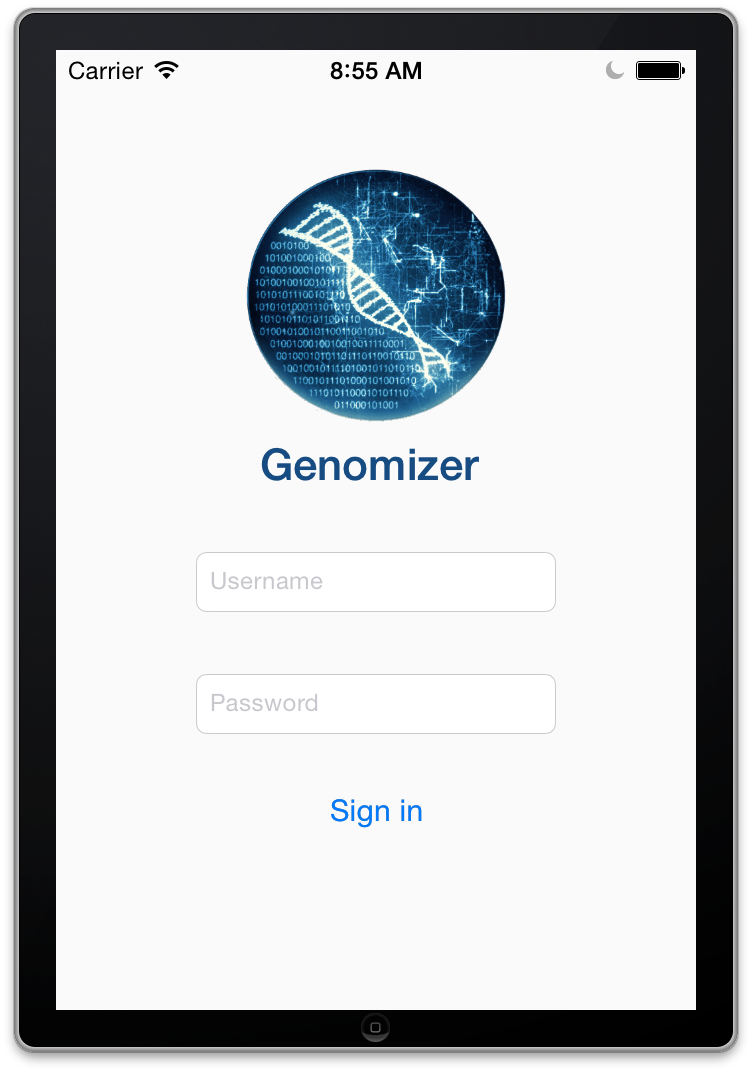
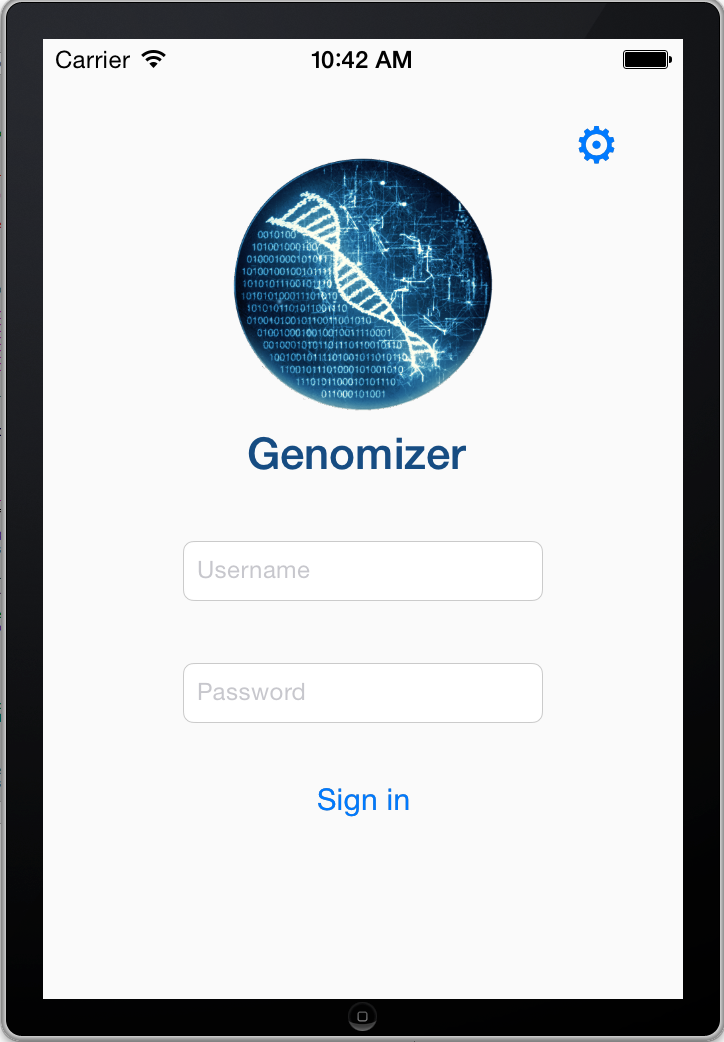
iOS allt sprint 4

diff --git a/usermanual/ios_manual.tex b/usermanual/ios_manual.tex
@@ -1,109 +1,81 @@
-In order to use the program import the project from github into Xcode from the following repository:
+In order to use the program, import the project from github into Xcode from the following repository:
 \url{https://github.com/genomizer/genomizer-iOS.git} 
 
-To compile and run the program press \click{cmd+R}. A simulator will start and the login screen will be shown as seen in \refer{fig:ios_login}  below. A user gets logged in when accepted credentials are entered in the ‘username’ and ‘password’ fields and the ‘Sign in’ button is pressed. If incorrect credentials is entered, a popup message is shown, informing the user that the username or password is incorrect.
+To compile and run the program, press \click{cmd+R}. A simulator will start and the login screen will be shown as seen in \refer{fig:ios_login}. A user gets logged in when accepted credentials are entered in the ‘username’ and ‘password’ fields and the ‘Sign in’ button is pressed. If incorrect credentials are entered, a popup message is shown, informing the user that the username or password is incorrect. The user can also change  the server to connect to by pressing the symbol in the top rightmost corner. The user will then be presented with a popup window as seen in the rightmost view in \refer{fig:ios_login}.
 
 \begin{figure}[ht]
-\addScaledImage{0.2}{ios_login.png}
+\addThreeImages{ios_login.png}{ios_loginFailed.png}{ios_changeServer}
 \caption{The login screen.}
 \label{fig:ios_login}
 \end{figure}
 \FloatBarrier
-After logging in, the user is presented with a search view as seen in \refer{fig:ios_search}. The bottom menu bar is used to navigate between the Search-, Selected files- and More-view according to Apples current GUI standards for iOS 7. In the current state, the More-menu only contains a logout button which is used to log out.The Selected files-menu contains a list sorted on file type of files selected by the user. In the search view, the user can search the database for results matching any number of search criteria. To be able to modify the search quickly, a toggle button is available in the rightmost edge of each search field which enables or disables each search field. For example, if the user wants to search for files matching a certain Experiment ID, the user clicks on ‘Experiment ID’, enters the ID and clicks on the toggle button. 
-
+After logging in, the user is presented with a search view as seen in the leftmost view in \refer{fig:ios_search}. The bottom menu bar is used to navigate between the Search-, Selected files-, Processes- and More-view in accordance with Apple's current GUI standards for iOS 7. In the current state, the More-menu only contains a logout button which is used to log out. The Selected files-menu contains a list of files selected by the user, sorted by file type.
 \begin{figure}[ht]
-\addScaledImage{0.2}{ios_search.png}
+\addThreeImages{ios_searchFirst.png}{ios_searchSecond.png}{ios_advancedSearch.png}
 \caption{The search screen.}
 \label{fig:ios_search}
 \end{figure}
 \FloatBarrier
-In top rightmost corner there is a button for opening a advanced search view as seen in \refer{fig:ios_advSearch}. Here the user is supposed to enter a search query in ’pubmed-style-format’. If a user fills in fields in the regular search view and then opens the advanced search view, the fields in filled at the regular search view will apper as a query in the advanced search view.
+In the search view, the user can search the database for results matching any number of search criteria. To be able to modify the search quickly, a toggle button is available in the rightmost edge of each search field which enables or disables each search field. For example, if the user wants to search for experiments where species is ‘human’, the user clicks on ‘Species’, chooses human, clicks done and the toggle button will automatically switch to active as seen in in the view in the middle in \refer{fig:ios_search}.
+In top rightmost corner, there is a button for opening an advanced search view as seen in the rightmost view in \refer{fig:ios_search}. Here the user is supposed to enter a search query in ’pubmed-style-format’. If a user fills in fields in the regular search view and then opens the advanced search view, the fields that currently have values set at the regular search view will apper as a query in the advanced search view.
+
+When the search button has been pressed, the user is presented with all matching experiments in the Search Results view shown to the left in \refer{fig:ios_searchResult}. To manage which annotations should be displayed for every experiment, the user can press the edit button in the top rightsmost corner and will then be presented with the middle view in \refer{fig:ios_searchResult}. Here the user can set the visibility for each annotation. When the user then presses the ’back’-button, the annotations chosen will be shown for each experiment as seen in the rightmost picture in \refer{fig:ios_searchResult}. To see which files are associated with each experiment, the user can click on the experiment in order to get to the Files view shown in the leftmost view in \refer{fig:ios_files1}.
 
 \begin{figure}[ht]
-\addScaledImage{0.2}{ios_advSearch.png}
-\caption{The advanced search screen.}
-\label{fig:ios_advSearch}
-\end{figure}
-\FloatBarrier
-When the search button has been pressed, the user is presented with all matching experiments in the Search Results view shown in \refer{fig:ios_searchResult}. To manage which annotations that shoud be shown for every experiment the user can press the edit button in the top rightmost corner.
-
-\begin{figure}[ht]
-\addScaledImage{0.2}{ios_searchResults.png}
+\addThreeImages{ios_searchResultsFirst.png}{ios_selectAnnotations.png}{ios_searchResultsSecond.png}
 \caption{The search result screen.}
 \label{fig:ios_searchResult}
 \end{figure}
 \FloatBarrier
-When the edit button is pressed the select annotations screen as seen in \refer{fig:ios_selectAnnotations} is shown. Here the user can choose which annotations should be shown in the search results screen. 
+In the Files view, the user can see all files connected to the selected experiment, sorted by type. The user can also get additional information about a file by simply clicking the blue information sign close to the filename. The file information is shown in a popup window as shown in rightmost view in \refer{fig:ios_files1}. If the user selects files and presses the ‘Convert files’-button, the user is shown the Select task view as seen in \refer{fig:ios_convert}. More about that later.
 
 \begin{figure}[htb]
-\addScaledImage{0.2}{ios_selectAnnotations.png}
-\caption{The select annotations screen.}
-\label{fig:ios_selectAnnotations}
-\end{figure}
-\FloatBarrier
-To see which files are associated with each experiment, the user can click on the experiment. Then the files view is shown as seen in \refer{fig:ios_files1}. Here the user can see all files conneted to the chosen experiment, sorted by type, and select files that the user want to move to the selected files view. If the user selects files and presses the ‘convert files’-button a the user is shown the Select task view shown in \refer{fig:ios_selectTask}. More about that screen later. The user can also get information about a file by simply clicking the blue information sign close to the filename. The file information is shown in a popup window as shown in \refer{fig:ios_fileInfo}.
-
-\begin{figure}[htb]
-\addScaledImage{0.2}{ios_files1.png}
+\addTwoImages{ios_filesFirst.png}{ios_filesFileInfo.png}
 \caption{The files screen.}
 \label{fig:ios_files1}
 \end{figure}
+\FloatBarrier
+The user can also move files to the selected files view. This is done by simply turning the switch to the right of the filename as seen in the left view in \refer{fig:ios_files3} and then pressing the ’Add to Selected files’-button. The user will then be presented with a popup window as shown in the rightmost view in \refer{fig:ios_files3}.
 
 \begin{figure}[htb]
-\addScaledImage{0.2}{ios_fileInfo.png}
-\caption{Screen showing popup information about a file.}
-\label{fig:ios_fileInfo}
+\addTwoImages{ios_filesSecond.png}{ios_addedToSelectedFiles.png}
+\caption{The files screen.}
+\label{fig:ios_files3}
 \end{figure}
 \FloatBarrier
-If the user had added files to the selected files and then presses the ‘Selected Files’-button in the menu the selected files screen is presented as seen in \refer{fig:ios_selectedFiles1}. If the user wishes to se more information about a file it is possible to simple click the blue information sign close to the filename and then file information is shown in a similar way as in the files view seen in \refer{fig:ios_fileInfo}. In the selected files screen the user can either select files and then press the trashcan icon in the top rightmost corner to delete the currently selected files or select a task to perform on the currently selected files by pressing the ‘Select task to perform’-button. 
+If the user presses the ‘Selected Files’-button in the menu, the Selected Files screen is presented, containing all files the user has added to selected files, as seen in the leftmost view in \refer{fig:ios_selectedFiles}. If the user wishes to see more information about a file, it is possible to simply click the blue information sign close to the filename. This shows file information in a similar way as in the files view seen in \refer{fig:ios_files1}. In the selected files screen the user can select files and then press the trashcan icon in the top rightmost corner to delete the currently selected files, as seen in the two rightmost views in \refer{fig:ios_selectedFiles}. The user can also select a task to perform on the currently selected files by pressing the ‘Select task to perform’-button. The user will then be presented with the Select task screen as seen in the leftmost view in \refer{fig:ios_convert}.
 
 \begin{figure}[htb]
-\addScaledImage{0.2}{ios_selectedFiles1.png}
+\addThreeImages{ios_selectedFilesFirst.png}{ios_selectedFilesSecond}{ios_filesRemoved}
 \caption{The selected files screen.}
-\label{fig:ios_selectedFiles1}
+\label{fig:ios_selectedFiles}
 \end{figure}
-
 \FloatBarrier
-If the ‘Select task to perform’-button is pressed the user is presented with the Select task screen is shown as seen in \refer{fig:ios_selectTask}. Here the user can see the different tasks that the user has the possibility to perform on the selected files by clicking the task that the user wants to go forward with. 
+In the Select Task view, the user is presented with a list of possible tasks that can be performed on the currently selected files. To perform a task, the user can simply click on that task.
 
 \begin{figure}[htb]
-\addScaledImage{0.2}{ios_selectTask.png}
+\addThreeImages{ios_selectTask.png}{ios_convert.png}{ios_convertSent}
 \caption{The select task screen.}
-\label{fig:ios_selectTask}
+\label{fig:ios_convert}
 \end{figure}
 \FloatBarrier
-If the user chooses ‘Convert to profile’ the Convert Raw to Profile screen is shown as seen in \refer{fig:ios_convertRawToProfile}. In this view the user can enter parameters used in the converting process. Every step of converting (i.e. SAM to GFF or GFF to SGR) requires that all previous fields are filled in since every convert step uses the previous steps in the process. When the user has entered the desired parameters a convert request is sent by clicking the ‘Convert’-button. 
-
+If the user chooses ‘Convert to profile’, the Convert Raw to Profile screen is shown as seen in the middle view in \refer{fig:ios_convert}. In this view the user can enter parameters used in the converting process. Every step of converting (i.e. SAM to GFF or GFF to SGR) requires that all previous fields are filled in, since every convert step uses results from the previous steps in the process. The minimum number of parameters are the first two, Bowtie and Genome file. When the user has entered the desired parameters, a convert request is sent by clicking the ‘Convert’ button. The user will then be presented with a popup window, showing the number of convert requests that were sent as seen in the rightmost view in \refer{fig:ios_convert}. If the user wants to see the status for the processes on the server, the user can click on the ‘Processes’-button in the menu and the Processes view will be shown as seen in \refer{fig:ios_processes}.
 \begin{figure}[htb]
-\addScaledImage{0.2}{ios_convertRawToProfile.png}
-\caption{The Convert Raw to Profile screen.}
-\label{fig:ios_convertRawToProfile}
-\end{figure}
-\FloatBarrier
-
-If the user has chosen to use ‘Convert to profile with ratio calculations’ the Convert Raw to Profile with Ratio calcutations screen is shown as seen in \refer{fig:ios_convertRawToProfileWithRatio}. This screen has all fields that the standard Convert Raw to Profile screen and two additional fields that takes parameters for ratio calculations. 
-
-\begin{figure}[htb]
-\addScaledImage{0.2}{ios_convertRawToProfileWithRatio.png}
-\caption{The Convert Raw to Profile screen.}
-\label{fig:ios_convertRawToProfileWithRatio}
-\end{figure}
-\FloatBarrier
-
-If the ‘More’-button in the menu is clicked the More screen is shown as in \refer{fig:ios_more}. Here the user has the possibilities to simply log out from the server or choose the see the current processes running on the server. If the ‘Processing Status’-button is pressed the user is presented with the Processes screen as shown in \refer{fig:ios_processes}. 
-
-\begin{figure}[htb]
-\addScaledImage{0.2}{ios_more.png}
-\caption{The more screen.}
-\label{fig:ios_more}
-\end{figure}
-
-\begin{figure}[htb]
-\addScaledImage{0.2}{ios_processes.png}
-\caption{The processes screen.}
+\addScaledImage{0.17}{ios_processes.png}
+\caption{The select task screen.}
 \label{fig:ios_processes}
 \end{figure}
 \FloatBarrier
+In the Processes view, the user can see all processes that the server have completed in the last two days and also all processes that users have added that are either currently running or waiting to be executed.
+If the ‘More’-button in the menu is clicked the More screen is shown as in \refer{fig:ios_more}.  
+
+\begin{figure}[htb]
+\addScaledImage{0.17}{ios_more.png}
+\caption{The more screen.}
+\label{fig:ios_more}
+\end{figure}
+\FloatBarrier
+In the more view the user has the possibilities to log out from the server and to see pictures of the development team.
 
 
 

diff --git a/interaction_design/ios_id.tex b/interaction_design/ios_id.tex
@@ -1,9 +1,7 @@
-Focus has been on making a nice looking application with an intuitive workflow. The design is based on the design selected in the design phase. However, some changes has been made in order to follow the iOS design principles. New insights of the demands of the customer and our increasing experience has also resulted in improvements of the original design. Some of the design decisions are motivated in the text below.
-
+Focus has been on making a nice looking application with an intuitive workflow and to follow the iOS design principles. Some of the design decisions are motivated in the text below.
 
 \subsection{Navigation bar}
-A navigation bar is used to make access to different main functionalities available at all times. The chosen design (at the end of the design phase) suggested to have an invisible menu which was slided in. However, an invisble menu is difficult to detect and does not follow the iOS design guidelines.
-
+A navigation bar is used to make access to different main functionalities available at all times. In the navigation bar iOS approved icons are used combined with a short describing text directly under it.
 
 \subsection{Login Screen}
 The login screen has two responsibilities; to make a nice first impression and to make it easy for the user to login. The design is kept simple and clean to avoid distractions.
@@ -12,7 +10,7 @@ The login screen has two responsibilities; to make a nice first impression and t
 The search view is designed to be usable for both advanced and new users. A list with available annotations is displayed to make it easy to do basic searches fast. Some annotations can only be selected with a picker view, while others are edited by typing free text. The reason for the occurance of the picker views is to simplify searches and help the user to make correct search requests. For example, the sex of an individual can only be male, female or unknown. Other values for the sex annotation would be nonsence!
 
 \begin{figure}[ht]
-\addScaledImage{0.2}{ios_search.png}
+\addTwoImages{ios_searchFirst.png}{ios_searchSecond}
 \caption{The search screen.}
 \label{fig:ios_search2}
 \end{figure}
@@ -20,60 +18,59 @@ The search view is designed to be usable for both advanced and new users. A list
 
 Each annotation has a corresponding switch button as seen in \refer{fig:ios_search2}. The button determines if the annotation should be included in the search request. This make it easy to make small changes to the search, while not clearing the annotation values.
 
-The advanced user can customize the search query sent to the server. This gives the user the opportunity make more complex search queries and possibly make use of already accuried PubMed-search skills.
+The advanced user can customize the search query sent to the server. This gives the user the possibility make more complex search queries and possibly make use of already accuried PubMed-search skills.
 
 \subsection{Search Result View}
 The main purpose of the search result view is to give an overview of the search results. The challenge with this view was to summarize large amount of information in a small area. The small screen of the iPhone made it impossible to have columns for each annotation. Instead a decision was made to group the files by experiment as seen in \refer{fig:ios_searchResult2}. The table with the experiments will only expand vertically, both when the number of shown annotations and the number of experiments grows. Thus, the user never has to scroll sideways which would be awkward.
 
 \begin{figure}[ht]
-\addScaledImage{0.2}{ios_searchResults.png}
+\addTwoImages{ios_searchResultsFirst.png}{ios_searchResultsSecond.png}
 \caption{The search result view.}
 \label{fig:ios_searchResult2}
 \end{figure}
 \FloatBarrier
 
-The user can choose which annotations to display in the result view. This gives the user the power to only show the annotations which are interesting at the moment. 
+The user can choose which annotations to display in the result view. This gives the user the possibility to only show the annotations which are interesting at the moment. 
 
-The file view (see \refer{fig:ios_files2}), which is shown when the user selects an experiment, only contains the most important information about the files of the specific experiment. The number of annotations shown in this view is kept at a minimun to avoid information overload and to give the user a good overview of the files. Three annotation were chosen: the name of the file, the date when the file was uploaded and the author. These were chosen to make it easy for the user to identify the correct files.
+The file view (see \refer{fig:ios_files2}), which is shown when the user selects an experiment, only contains the filename of the files in the specific experiment. The annotations is not shown in this view to avoid information overload and to give the user a good overview of the files.
 
 \begin{figure}[ht]
-\addScaledImage{0.2}{ios_files.png}
+\addTwoImages{ios_filesFirst.png}{ios_filesSecond.png}
 \caption{The file view.}
 \label{fig:ios_files2}
 \end{figure}
 \FloatBarrier
 
-The functionality of the Convert files button can be reached from other views, but was added to this view as well to improve the workflow. Instead of first selecting the files, then going to the Selected files view and initiate the convertion from there, the user can now quickly convert files directly from the search results.
-
+The functionality of the Convert files button can be reached from other views, but was added to this view as well to improve the workflow. Instead of first selecting the files, then going to the Selected files view and initiate the convertion from there, the user can quickly convert files directly from the search results.
 
 \subsubsection{Selected Files}
 The selected files view can be seen in \refer{fig:ios_selectedFiles2}. The files are grouped into four categories: raw, profile, region and other. This is done by showing each type of files in its own tab. The reason for this is to avoid the possibility to select files of different types since the tasks to perform are file type specific. It also gives a better overview of the files when only one type is shown instead of showing all files at the same time. Additionally, the top tab bar menu is following the iOS design guidelines.
 
 \begin{figure}[ht]
-\addScaledImage{0.2}{ios_selectedFiles.png}
+\addTwoImages{ios_selectedFilesFirst.png}{ios_selectedFilesSecond.png}
 \caption{The selected files view.}
 \label{fig:ios_selectedFiles2}
 \end{figure}
 \FloatBarrier
 
-\subsubsection{Select task}
-The select task menu can easily be expanded when new functionality is added to the application. The Execute-button is disabled as long as no task is selected. A checkmark is displayed next to the task to perform. When an other task is selected the checkmark is moved. The reason for not using switch buttons is that they would give the impression that several tasks could be executed at once, which is not possible at the moment.
+\subsubsection{Select task and Convert}
+The select task menu can easily be expanded when new functionality is added to the application. The simplest way we could think of to select a task was to simply press it and hence it's implemented that way.
 \begin{figure}[ht]
-\addScaledImage{0.2}{ios_convert_parameters.png}
-\caption{The parameter view.}
+\addTwoImages{ios_selectTask}{ios_convert.png}
+\caption{The convert view.}
 \label{fig:ios_convertParameters}
 \end{figure}
 \FloatBarrier
 
-As seen in \refer{fig:ios_convertParameters}, the convert parameter view, shows a number of parameters too be filled. Only the first field has to be filled before a  convert request can be sent. Our thought was that a user should be able to opt-out of all non-optional settings, and let the server decide the standard parameter values. 
+As seen to the right in \refer{fig:ios_convertParameters}, the convert view, shows a number of parameters to be filled. Only the first two fields has to be filled before a convert request can be sent. Our thought was that a user should be able to skip all non-optional settings, and let the server have the standard parameter values. 
 
+
+\subsubsection{Processes}
 \begin{figure}[ht]
-\addScaledImage{0.2}{processing_status_view.png}
+\addScaledImage{0.17}{ios_processes.png}
 \caption{The process status view.}
 \label{fig:ios_processingStatus}
 \end{figure}
 \FloatBarrier
 
 As visible in \refer{fig:ios_processingStatus}, we chose to build the processing status view with a simple tableview, to make it dynamic and easy. We also think this gives the user the best possible overview of current processes.
-
-\paragraph{}

diff --git a/system_design/ios_systemdesign.tex b/system_design/ios_systemdesign.tex
@@ -1,3 +1,6 @@
+The following sections describes the system design of the iOS application. The overall system design is discussed followed by a more detailed description of how the segues are controlled.
+
+\subsection{Overall system design}
 The  system is designed using the model-view-controller principle. Each view is controlled by its own controller class which reacts to user input and triggers changes in the model and updates the view accordingly.
 \begin{figure}[ht]
 \addScaledImage{0.3}{ios_UML2.png}
@@ -6,34 +9,80 @@ The  system is designed using the model-view-controller principle. Each view is 
 \end{figure}
 \FloatBarrier
 
-\refer{fig:ios_UML} gives an overall image of the system design. Some classes are excluded from the figure to make it easier to get an overall idea of the system. The controller classes of the table cells and some other controller classes are not illustrated in the diagram. The non-excluded classes are:
+\refer{fig:ios_UML} gives an overall image of the system design. Some classes are excluded from the figure to make it easier to get an overall idea of the system. The controller classes of the table cells and some other controller classes are not illustrated in the diagram. The non-excluded classes are described in \refer{table:ios_class_table}.
 
-\begin{itemize}
+\begin{table}
+\begin{tabularx}{\textwidth}{|l|X|}
+\hline
+\textbf{Class} & \textbf{Description} 
+\\ \hline
+\term{Annotation} &
+Contains information about an annotation and can format the annotation name to an aesthetically more pleasing representation.
+\\ \hline
 
-\item \term{Annotation} - contains information about an annotation and can format the annotation name to an aesthetically more pleasing representation.
+\term{DataFileViewController} &
+Controls the File view presented in \refer{fig:ios_files1}. It contains a reference to an experiment and lists all its files in a table.
+\\ \hline
 
-\item \term{DataFileViewController} - controlls the File view presented in \refer{fig:ios_files1}. It contains a reference to an experiment and lists all its files in a table.
+\term{Experiment} &
+A class that contains information related to an experiment, as well as its files.
+\\ \hline
 
-\item \term{Experiment} - is a class that contains information related to an experiment, as well as its files.
+\term{ExperimentDescriber} &
+Generates a description of an experiment using annotations chosen by the user.
+\\ \hline
 
-\item \term{ExperimentDescriber} - generates a description of an experiment using annotations chosen by the user.
+\term{ExperimentFile} &
+Contains information about a file from an experiment.
+\\ \hline
 
-\item \term{ExperimentFile} - contains information about a file from an experiment.
+\term{ExperimentParser} &
+Parses experiment information from a NSDictionary to an Experiment object.
+\\ \hline
 
-\item \term{ExperimentParser} - parses experiment information from a NSDictionary to an Experiment object.
+\term{FileContainer} &
+Contains files and sorts them by file type.
+\\ \hline
 
-\item \term{FileContainer} - contains files and sorts them by file type.
+\term{JSONBuilder} &
+Creates different JSON requests.
+\\ \hline
 
-\item \term{JSONBuilder} - creates diffrent JSON requests.
+\term{PubMedBuilder} &
+Creates a pubmed search query.
+\\ \hline
 
-\item \term{PubMedBuilder} - creates a pubmed search query.
+\term{SearchResultController} &
+A controller class for the Search Results view presented in  \refer{fig:ios_searchResult}. It configures the table which holds the information about the experiments a search resulted in. An ExperimentDescriber is used to generate a description of the experiments.
+\\ \hline
 
-\item \term{SearchResultController} - is a controller class for the Search Results view presented in  \refer{fig:ios_searchResult}. It configures the table which holds the information about the experiments a search resulted in. An ExperimentDescriber is used to generate a description of the experiments.
+\term{SearchViewController} &
+A controller class for the Search view, see \refer{fig:ios_search}. It checks which annotation-fields are used and tells the JSONBuilder to generate a corresponding search query when the user presses the search button. The class also contains a advanced search to allow the user to manually enter search queries. 
+\\ \hline
 
-\item \term{SearchViewController} - is a controller class for the Search view, see \refer{fig:ios_search}. It checks which annotation-fields are used and tells the JSONBuilder to generate a corresponding search query when the user presses the search button. The class also contains a advanced search to allow the user to manually enter search queries. 
+\term{SelectedFilesController} &
+A controller class for the The selected files view shown in \refer{fig:ios_selectedFiles1}. The selected files controller contains information about files saved by the user.
+\\ \hline
 
-\item \term{SelectedFilesController} - is a controller class for the The selected files view shown in \refer{fig:ios_selectedFiles1}. The selected files controller contains information about files saved by the user.
+\term{ServerConnection} &
+Sends and receives JSON objects to and from the server.
+\\ \hline
+\end{tabularx}
 
-\item \term{ServerConnection} - sends and receives JSON objects to and from the server.
+\caption{Description of some classes of the system.}
+\label{table:ios_class_table}
+\end{table}
+\FloatBarrier
 
-\end{itemize}
+A more detailed description of these classes, and the ones not mentioned here, can be found in comments in the source code.
+
+\subsection{Segue controll}
+To avoid several segues to be executed at the same time, a segue controll package has been implemented. Instead of extending UIViewController, UITableViewController, UITabBarController and UINavigationBar the corresponding XYZ class should be used instead. An overview of this design can be seen in \refer{fig:ios_UML_segue}. This figure also includes the classes XYZDataFileController and XYZSearchResultController as two examples of such implementations.
+
+\begin{figure}[ht]
+\addScaledImage{0.35}{ios_uml_segue2.png}
+\caption{UML diagram describing the segue controll.}
+\label{fig:ios_UML_segue}
+\end{figure}
+\FloatBarrier
+

diff --git a/implementation/ios_implementation.tex b/implementation/ios_implementation.tex
@@ -1,5 +1,5 @@
-\subsection{Implementation}
-In the following section, details regarding the implementation of the iOS application is described using sequence diagrams and.
+The iOS application has been implemented using Objective C. The decision to use Objective C was made largely because it is the standard language used for writing iOS applications. 
+In the following sections, details regarding the implementation of the iOS application are described using sequence diagrams. The section ends with a description of testing strategies.
 
 \subsubsection{Login}
 
@@ -43,16 +43,18 @@ From the \term{FileView}, the user can select any number of files to add to a li
 
 \subsubsection{Convert Request}
 
-As seen in \refer{fig:ios_sequence_convert_request}, convert requests are sent with very few steps. 
+As seen in \refer{fig:ios_sequence_convert_request2}, convert requests are sent with very few steps. 
 
 \begin{figure}[ht]
 \addScaledImageVertical{0.5}{ios_send_convert_sequence_diagram.png}
 \caption{Send convert request.}
-\label{fig:ios_sequence_convert_request}
+\label{fig:ios_sequence_convert_request2}
 \end{figure}
-
 \FloatBarrier
 
-\subsection{Testing}
+\subsubsection{Segue Control}
+A segue control package has been implemented to avoid multiple segues being executed at the same time. When a segue is started, a static \term{BOOL} is set to \term{YES} in XYZSegueController. When the segue is finished, the \term{BOOL} in XYZSegueController is set to \term{NO}. This means that the \term{BOOL} is \term{YES} when a segue is being executed, and \term{NO} otherwise. Every time a segue is going to be executed, it first checks the value of the \term{BOOL}. If a segue is already being executed, i.e. the \term{BOOL} is \term{YES}, the new segue is aborted.
 
-Unit-tests have been written for nearly all underlying classes. This includes JSONBuilder, ExperimentDescriber, Experiment, ExperimentFile, and ExperimentParser. These tests check all required functionality, including but not limited to proper object creation. Exactly what all the tests do is explained in the test names and comments. ServerConnection has not been tested, this is work for the next sprint. User interface functionality and integration testing has been done using exploratory methods. These tests have not been recorded or documented.
+\subsubsection{Testing}
+
+Unit-tests have been written for nearly all underlying classes. This includes JSONBuilder, XYZExperimentDescriber, XYZExperiment, XYZExperimentFile, and XYZExperimentParser. These tests check all required functionality, including but not limited to proper object creation. Exactly what all the tests do is explained in the test names and comments. ServerConnection has not been unit tested, largely because all communication with the server is done asynchronously which adds a layer of complexity to the tests. User interface functionality and integration testing has been performed using exploratory methods. These tests have not been recorded or documented.
